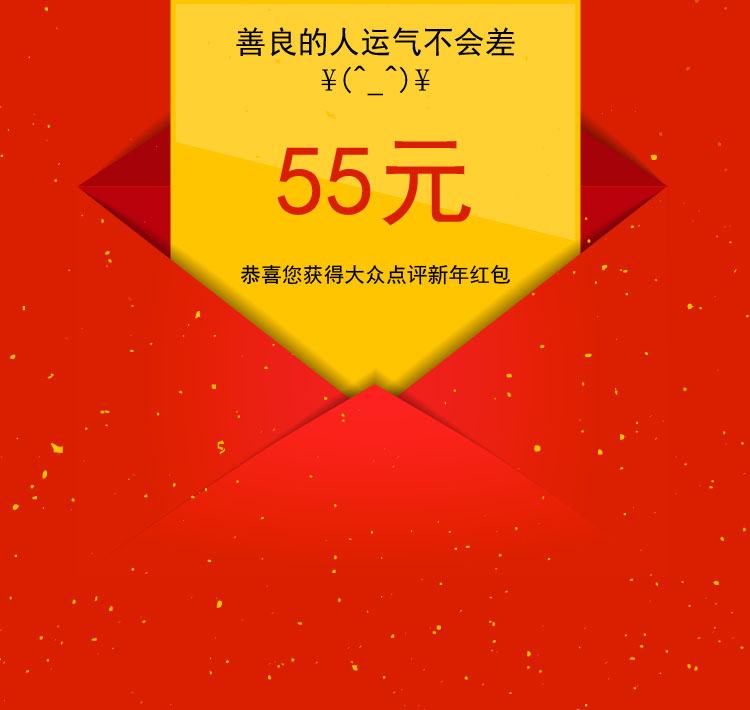
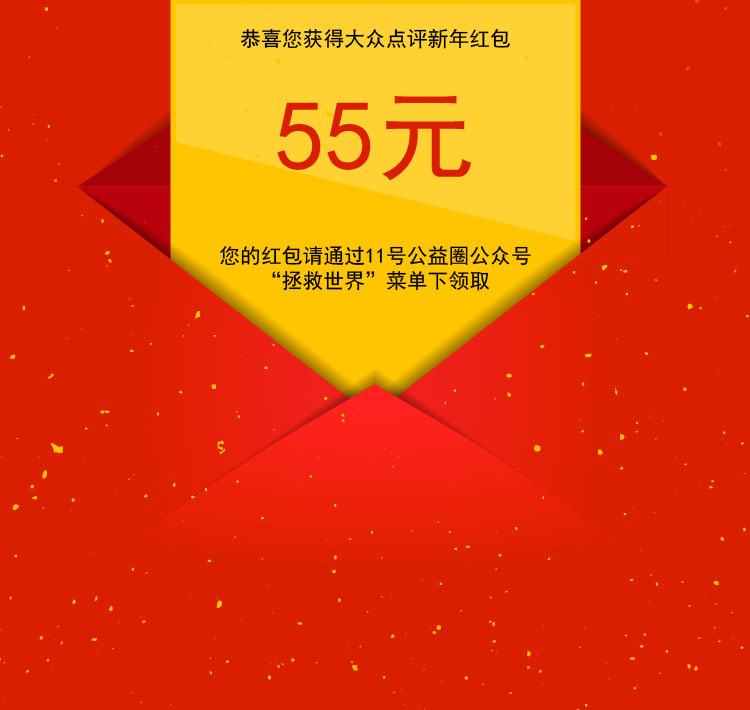
1
1

Changed region(s): [[0.3067, 0.031, 0.7053, 0.3099], [0.276, 0.3408, 0.7053, 0.4338]]

diff --git a/app/controllers/personal_story_campagin_controller.rb b/app/controllers/personal_story_campagin_controller.rb
@@ -419,24 +419,31 @@ class PersonalStoryCampaginController < ApplicationController
   def my_influence
 
     # session[:openid] = "oaR9aswmRKvGhMdb6kJCgIFKBpeg1"
-
+    has_campaign = false
+    
     if session[:openid]
 
       @seller = Seller.where(:open_id => session[:openid]).first
-
-      unless @seller
-        redirect_to root_path and return
+      
+      if @seller
+        
+        @share_link = ""
+        @campaign = Campaign.find_by_id(@seller.campaign_id)
+      
+        @share_link = get_share_link(@campaign.slug, @seller.id)
+      
+        if @share_link != ""
+          redirect_to @share_link and return
+        else
+          redirect_to root_path and return
+        end
+        
       end
       
-      @share_link = ""
-      @campaign = Campaign.find_by_id(@seller.campaign_id)
-      
-      @share_link = get_share_link(@campaign.slug, @seller.id)
-      
-      if @share_link != ""
+      if has_campaign
         redirect_to @share_link and return
       else
-        redirect_to root_path and return
+        render "no_donation"
       end
       
     else
@@ -447,6 +454,45 @@ class PersonalStoryCampaginController < ApplicationController
 
   end
   
+  def get_red_pack
+    
+    has_donated = false
+    
+    if session[:openid]
+
+      @sellers = Seller.where(:open_id => session[:openid])
+      
+      if @sellers
+        
+        @sellers.each do |seller|
+          
+          campaign = Campaign.find_by_id(seller.campaign_id)
+          story_campaign_ids = ["1454046936","1450070083","1454041189","1429755460","1454040291","1449033862","1454046268",
+          "1453430970","1454046097","1454297408","1454047162","1454297766","1454309232","1450162303","1454310248","1454304921",
+          "1450162262","1437020617","1454383538"]
+        
+          if story_campaign_ids.include?(campaign.slug)
+            has_donated = true
+            break
+          end
+          
+        end
+        
+      end
+      
+      if has_donated
+        redirect_to "http://evt.dianping.com/event/mmbonus/new/newlanding.html?source=gongyi" and return
+      else
+        render "no_donation"
+      end
+    
+    else
+      
+      redirect_to root_path and return
+      
+    end
+    
+  end
   
   def check_seller
     if session[:openid]

diff --git a/config/routes.rb b/config/routes.rb
@@ -124,6 +124,7 @@ Raisy::Application.routes.draw do
 
     #personal_story
     get 'personal_story_campagin/my_influence', to: 'personal_story_campagin#my_influence', as: :personal_story_campagin_my_influence
+    get 'personal_story_campagin/get_red_pack', to: 'personal_story_campagin#get_red_pack', as: :personal_story_campagin_get_red_pack
     get 'checkout/supportcampagin', to: 'personal_story_campagin#index', as: :personal_story_campagin_index
     get 'checkout/supportcampagin_old', to: 'personal_story_campagin#index_old', as: :personal_story_campagin_index_old
     get 'checkout/supportcampagin/:id', to: 'personal_story_campagin#index', as: :personal_story_campagin_share_index

diff --git a/app/controllers/weixin_controller.rb b/app/controllers/weixin_controller.rb
@@ -45,7 +45,11 @@ class WeixinController < ApplicationController
               type: "view",
               name: "我的影响力",
               url: "http://www.11haoonline.com/personal_story_campagin/my_influence"
-              # url: "http://www.11haoonline.com/seller/campaign_list"
+            },
+            {
+              type: "view",
+              name: "领取红包",
+              url: "http://www.11haoonline.com/personal_story_campagin/get_red_pack"
             }
           ]
         },
